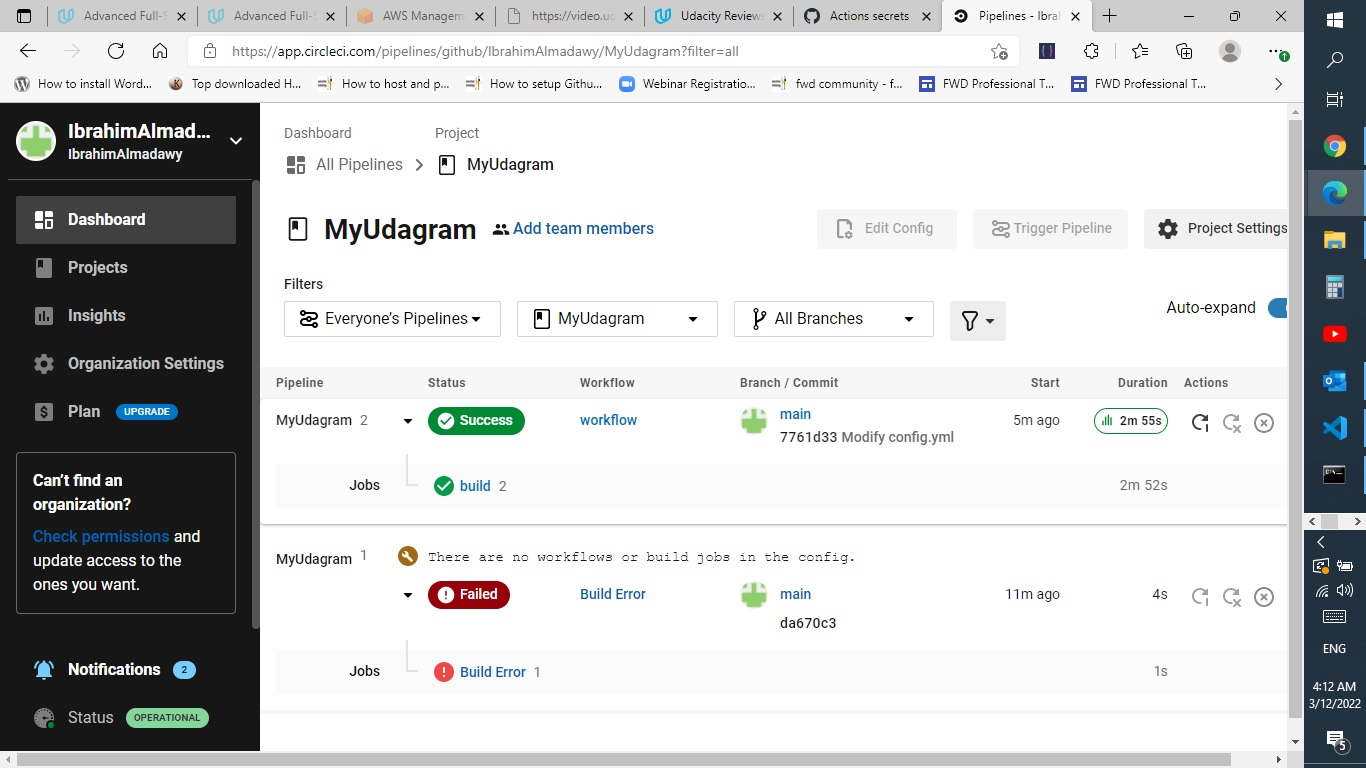
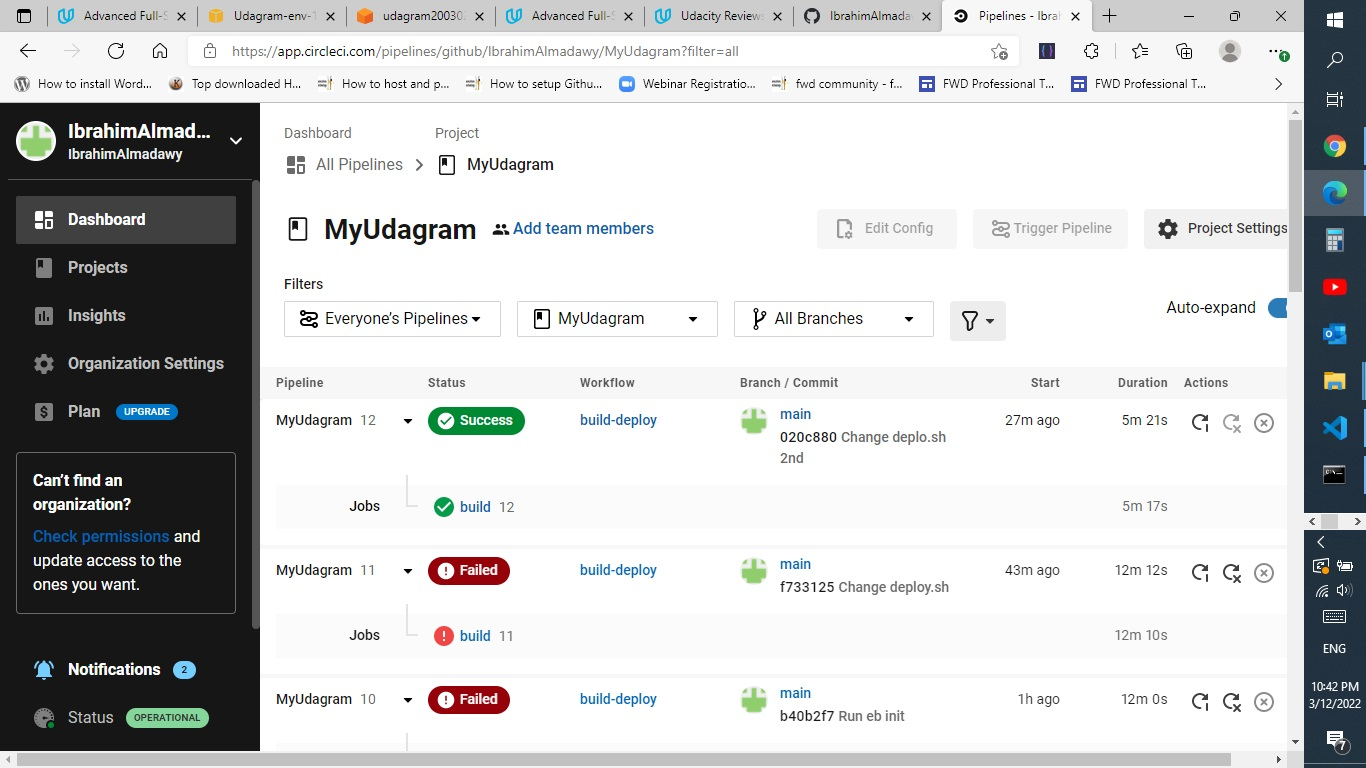
Update Docs, Screenshots and diagrams

diff --git a/README.md b/README.md
@@ -18,15 +18,15 @@
  ## 3. Project folders and files:
  This project start with 2 main folders:
   - **udagram-api:**
-   This folder contains all back-end files and provide the main files *server.ts* and *sequelize.ts* to setup server and connect database, also contains *config.ts* which contains the enviroment variables pulled from *.env* file, also contains the *package.json* which contains all the dependencies to build and run back-end code and all scripts to interact with back-end.
+   This folder contains all back-end files and provide the main files *server.ts* and *sequelize.ts* to setup server and connect database, also contains *config.ts* which contains the environment variables pulled from *.env* file, also contains the *package.json* which contains all the dependencies to build and run back-end code and all scripts to interact with back-end.
   - **udagram-frontend:**
    This folder contains the main *Angular* files for the front-end, also there is a files for testing *End To End testing* and *Unit testing, also there is the front-end *package.json* file which contains all the dependencies to build and run back-end code and all scripts to interact with front-end.
    - **Root level:**
-   Main *package.json* provided in the root level (will discuss in "Deploing process steps" section), and *README.md* file (this file), and another important folder in the root level initiated *.circleci* (Also I will discuss in "Deploing process steps" section).
+   Main *package.json* provided in the root level (will discuss in "Deploing process steps" section), and *`README.md`* file (this file), and another important folder in the root level initiated *.circleci* (Also I will discuss in "Deploing process steps" section).
 
 ## 4. Deploying process steps:
   - **First** 
-  Trying to setup project locally, After got a good time with the back-end code in *udagram-end* folder, I found that we need to initiate a Enviroment variables file *.env* inside the back-end root to let the *config.ts* file pull all this variabes to push it to back-end files and this variables are:
+  Trying to setup project locally, After got a good time with the back-end code in *udagram-end* folder, I found that we need to initiate a envirnoment variables file *.env* inside the back-end root to let the *config.ts* file pull all this variabes to push it to back-end files and this variables are:
 
     1. POSTGRES_USERNAME
     2. POSTGRES_PASSWORD
@@ -51,7 +51,7 @@ Review the *package.json* file inside *udagram-api* folder and all scripts defin
 Running all back-end scripts and all of it returns success after setup elastic beanstalk cli to run deploy script.
 
 - **Fourth** 
-Reviewing the front-end code inside *udagram-frontend* folder, starting by *package.json* and review all dependencies and devdeprndencies, and run all the scripts and all returns success, also tests run successfully, but also we define "deploy" script to run with aws cli, and creating a file containing the deploying script *deploy.sh*.
+Reviewing the front-end code inside *udagram-frontend* folder, starting by *package.json* and review all dependencies and devdeprndencies, and run all the scripts and all returns success, also tests run successfully, but also we define "deploy" script to run with aws cli, and creating a file containing the deploying script `deploy.sh`.
 
 - **Fifth**
  Going to the root level to see *package.json* and define all this scripts:
@@ -74,11 +74,11 @@ Reviewing the front-end code inside *udagram-frontend* folder, starting by *pack
  - Creating IAM user account:
   I created IAM user to get the aws needed **AWS_ACCESS_KEY_ID** and **AWS_SECRET_ACCESS_KEY** (will be needed to access aws from circleci dashboard).
  - **RDS service:**
-  Setup a Postgres database instense.(Separate document attached *RDS.md*).
+  Setup a Postgres database instense.(Separate document attached [Infrastructure.md](./Docs/infrastructure.md)).
  - **Elastic beanstalk service:**
-  Setup an enviroment inside elastic beanstalk.(Separate document attached *Enviroment.md*).
+  Setup an environment inside elastic beanstalk.(Separate document attached [Infrastructure.md](./Docs/infrastructure.md)).
  - **S3 service:**
-  Creating a bucket inside S3 dashboard. (Separate document attached *Bucket.md*).
+  Creating a bucket inside S3 dashboard. (Separate document attached [Infrastructure.md](./Docs/infrastructure.md)).
 
  - **Sevnth** 
  Create an account on *Github.com* and setup Git in project folder to remote *Github* new repository with the local project folder on my own machine.
@@ -87,10 +87,19 @@ Reviewing the front-end code inside *udagram-frontend* folder, starting by *pack
   Start by write down in a paper the pipeline structure and create *config.yml* file inside *.circlci* folder and write the structure.
 
  - **Ninth** 
-I connected *Github* account to the created *circleci* accout to see my repository appears on *circleci* dashboard, before setup my project in *circleci*, I added the enviroment variable needed to run *circleci* process successfully, I set:
+I connected *Github* account to the created *circleci* accout to see my repository appears on *circleci* dashboard, before setup my project in *circleci*, I added the environment variable manually to *circleci* process successfully, I set:
    * AWS_ACCESS_KEY_ID
    * AWS_SECRET_ACCESS_KEY  
    * AWS_DEFAULT_REGION
+   * AWS_BUCKET
+   * PORT
+   * POSTGRES_PORT
+   * POSTGRES_DB
+   * POSTGRES_HOST
+   * POSTGRES_USER
+   * POSTGRES_PASSWORD
+   * JWT_SECRET
+   * URL
 
  - **Tenth** 
    Start setup project process in *circleci* with a error to test process and it failed and try to change a *config,yml* file and *push* to repository again to see the process started immediatilly on *circleci* dashboard automatically and completed successfully in all steps [![IbrahimAlmadawy](https://circleci.com/gh/IbrahimAlmadawy/MyUdagram.svg?style=svg)](https://circleci.com/gh/IbrahimAlmadawy/MyUdagram) (5 Sreenshots attached inside root level *Screenshots* folder).
@@ -98,18 +107,16 @@ I connected *Github* account to the created *circleci* accout to see my reposito
  
 
 ### Secrets configurations:
- All Secrets(Enviroment variables) in this project declared in 2 positions:
-   1. ***Circleci*** (as discussed).
-   2. ***Elastic beanstalk*** to connect to database.
+ All Secrets(Environment variables) in this project declared manually in ***Circleci*** (as confirmed).
    Screenshots attached inside root level *Screenshots* folder.
 
 ## 5. Another specific files:
 
-  1. *RDS.md* (root/Docs).
-  2. *Enviroment.md* (root/Docs).
-  3. *Bucket.md* (root/Docs).
-  4. *Screenshots* folder(root level).
-  5. *Deployment flow.jpg* diagram (root/Docs/Diagram).
+  1. [*Infrastructure.md*](./Docs/infrastructure.md) (root/Docs).
+  2. [*Pipeline.md*](./Docs/pipeline.md) (root/Docs).
+  3. [*Dependencies.md*](./Docs/Dependencies.md) (root/Docs).
+  4. [*Screenshots*](./Sreenshots/) folder(root level).
+  5. [*Diagrams*](./Diagrams/) (root/Diagrams).
 
 ## 6. References:
   1. *circleci.com : Documentation*

diff --git a/Docs/infrastructure.md b/Docs/infrastructure.md
@@ -21,30 +21,22 @@ This project created using an infrastructure of:
      + Posrbird shows connecting and saving data successfully.
 
 ### 2. AWS ElasticBeanstalk: ***(udagram-env-1)***
-  I created elastic beanstalk enviroment with this options:
+  I created elastic beanstalk environment with this options:
    * Setting to ***Web server***.
    * Setting application name to ***Udagram***.
-   * Setting enviroment name as above.
+   * Setting environment name as above.
    * Setting platform to ***nodejs***.
    * upload my back-end compiled code inside "www" directory which was build compressed in *zip* format.
-   * Setting all enviroment variables inside configuration inside software section:
-      + POSTGRES_HOST
-      + POSTGRES_DB
-      + POSTGRES_USERNAME
-      + POSTGRES_PASSWORD
-      + POSTGRES_PORT
-      + PORT
-      + URL
-      + JWT_SECRET
+   * No environment variables added manually in the EB environment.
       (as shown in screenshots).
-   * After a while enviroment gives status of ***ok***.
+   * After a while environment gives status of ***ok***.
    * Sreenshots avaiable inside screenshots folder in the root level shows:
-      + Start creating EB enviroment.
-      + Setting enviroment variables in EB.
-      + EB enviroment created with health status **ok**.
+      + Start creating EB environment.
+      + No environment variables in EB.
+      + EB environment created with health status **ok**.
 
 ### 3. AWS S3  ***(udagram20030200)***
-   * Start by setting the elastic beanstalk url to the url for the front-endresponse inside *enviroment.ts* in the local root of front-end folder.
+   * Start by setting the elastic beanstalk url to the url for the front-endresponse inside *environment.ts* in the local root of front-end folder.
    * create a new bucket and set the above name for it.
    * Allow all public access.
    * Set the bucket policy in premission as:

diff --git a/Docs/pipeline.md b/Docs/pipeline.md
@@ -1,12 +1,12 @@
-  ## Pipeline structure 
+  ## Pipeline structure ([Diagram](../Diagrams/Pipeline%20process.jpg))
 
 Circleci pipeline designed to deliver a continous update for every changes in any time without need to edit every service individually and also without need any time, Its automated service that will help me to apply changes immediatelly to web services, pipeline helps with drawing a map to perform a change process automatically, The structure of pipeline:
 + Starting with defining version.
-+ Define orbs as:
++ Define ***orbs*** as:
     - *node* : circleci/node@4.1.0
     - *aws-cli* : circleci/aws-cli@1.3.1
     - *aws-eb-cli* : circleci/elastic beanstalk@2.0.
-+ Create jobs (build):
++ Create ***jobs*** (build):
    Creating docker image and start steps:
     
    #### Continous integration CI:
@@ -27,3 +27,5 @@ Circleci pipeline designed to deliver a continous update for every changes in an
     * Deploy:
        1. Front-end(Continous deploy to S3 bucket).
        2. Back-end(Continous deploy to EB).
++ Setting ***workflow*** for jobs and set filter to fire *circleci* triggers only when **main** branch only PUSH changes.
+
